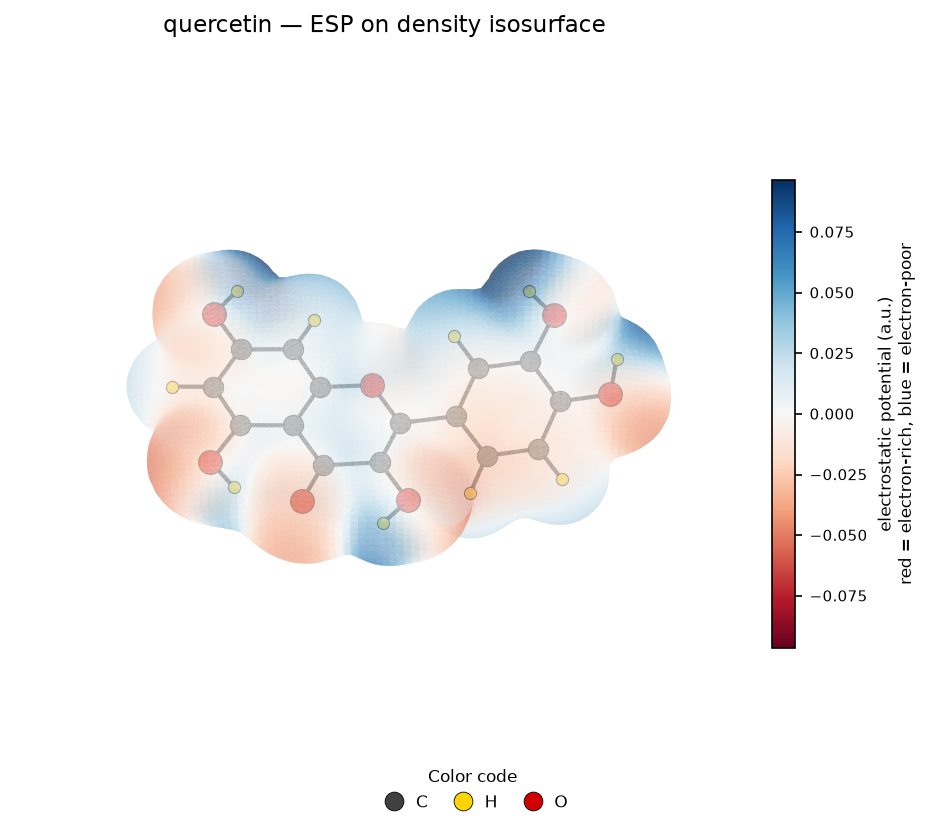
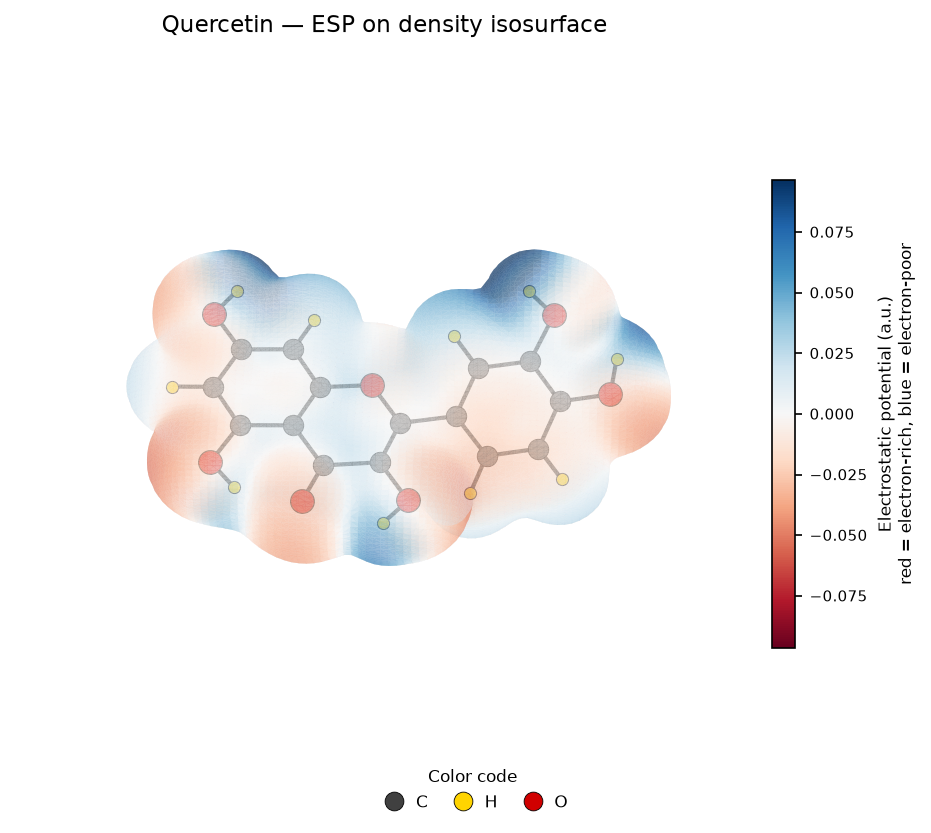
style(report): capitalize figure panel titles
The pose, Fukui, protonation and ESP figures carried lowercase panel
titles ('side', 'atom indices', 'neutral'/'protonated', 'electrostatic
potential') that broke the sentence-case convention. Capitalize them and
make the pose side view symmetric with the top view. The orbital (fig2b)
and ESP (fig7) figures were also stale, still showing the pre-display_name
lowercase molecule name, so regenerate them; the titles now read
'Kaempferol HOMO' and 'Kaempferol - ESP on density isosurface'. The Fukui
f-/f+ legend and the RDF r / g(r) axis labels stay lowercase as standard
scientific notation.

Regenerated arghel figures: fig2b, fig3b, fig4, fig5, fig7.

Changed region(s): [[0.3426, 0.0, 0.6541, 0.0624], [0.9345, 0.3745, 0.9656, 0.6555], [0.1557, 0.0, 0.2803, 0.0624]]

diff --git a/tests/test_figure_titles.py b/tests/test_figure_titles.py
@@ -1,0 +1,80 @@
+"""Figure panel titles are sentence-cased (capitalised first word).
+
+Guards against the lowercase panel titles ('side', 'atom indices') that shipped
+in the pose and Fukui figures — every rendered subplot title must lead with a
+capital so the manuscript figures read consistently.
+"""
+import matplotlib
+
+matplotlib.use("Agg")
+
+import matplotlib.pyplot as plt
+import pandas as pd
+import pytest
+from ase import Atoms
+
+from corrosim import build_molecule
+from corrosim.qm.fukui import FukuiResult
+from corrosim.report import figures
+
+
+def _titles(fig):
+    """Non-empty subplot titles of a figure, in axis order."""
+    return [ax.get_title() for ax in fig.axes if ax.get_title()]
+
+
+def _leads_capital(title: str) -> bool:
+    """True when the title's first character is not a lowercase letter."""
+    return not title[0].islower()
+
+
+class _FakeSystem:
+    """Minimal adsorption-system stand-in for the pose renderer."""
+
+    metal = "Fe"
+    surface = "(110)"
+    combined = Atoms("Fe2O", positions=[[0, 0, 0], [2.5, 0, 0], [1.2, 0, 3.0]])
+
+
+def test_plot_adsorption_pose_panel_titles_are_capitalised():
+    fig = figures.plot_adsorption_pose(_FakeSystem())
+    titles = _titles(fig)
+    assert titles == ["Fe(110) — top", "Fe(110) — side"]
+    assert all(_leads_capital(t) for t in titles)
+    plt.close(fig)
+
+
+def test_plot_fukui_atom_index_panel_is_capitalised():
+    pytest.importorskip("PIL")
+    mol = build_molecule("tetrazole")
+    syms = mol.symbols
+    fk = FukuiResult.from_populations(
+        symbols=syms,
+        f_plus=[0.1] * len(syms),
+        f_minus=[0.2] * len(syms),
+        softness=1.0,
+    )
+    fig = figures.plot_fukui(fk, molecule=mol, title="Tetrazole — condensed Fukui")
+    titles = _titles(fig)
+    # The structure panel (present when RDKit 2D drawing is available) must be
+    # 'Atom indices', not the old lowercase 'atom indices'.
+    assert "Atom indices" in titles
+    assert all(_leads_capital(t) for t in titles)
+    plt.close(fig)
+
+
+def test_plot_protonation_effect_legend_is_capitalised():
+    df = pd.DataFrame(
+        [
+            {"name": "x", "form": "neutral", "phase": "aqueous",
+             "gap_ev": 3.0, "delta_n": 0.20},
+            {"name": "x+H+", "form": "protonated", "phase": "aqueous",
+             "gap_ev": 3.2, "delta_n": 0.10},
+        ]
+    )
+    fig = figures.plot_protonation_effect(df, ["x"])
+    legends = {t.get_text()
+               for ax in fig.axes if ax.get_legend()
+               for t in ax.get_legend().get_texts()}
+    assert legends == {"Neutral", "Protonated"}
+    plt.close(fig)

diff --git a/src/corrosim/report/figures.py b/src/corrosim/report/figures.py
@@ -320,8 +320,8 @@ def plot_protonation_effect(df: pd.DataFrame, order: Sequence[str],
         neu = [val("neutral", m) for m in order]
         pro = [val("protonated", m + "+H+") for m in order]
         x = np.arange(len(order))
-        ax.bar(x - 0.2, neu, 0.4, label="neutral", color=C_BAR)
-        ax.bar(x + 0.2, pro, 0.4, label="protonated", color=C_LUMO)
+        ax.bar(x - 0.2, neu, 0.4, label="Neutral", color=C_BAR)
+        ax.bar(x + 0.2, pro, 0.4, label="Protonated", color=C_LUMO)
         ax.set_xticks(x)
         ax.set_xticklabels([display_name(m) for m in order], rotation=15)
         ax.set_title(title, fontsize=10)
@@ -407,7 +407,7 @@ def plot_adsorption_pose(system: Any, out: str | None = None) -> object:
     plot_atoms(combined, axes[0], rotation="0x,0y,0z", colors=colors)
     plot_atoms(combined, axes[1], rotation="-90x,0y,0z", colors=colors)
     axes[0].set_title(f"{system.metal}{system.surface} — top")
-    axes[1].set_title("side")
+    axes[1].set_title(f"{system.metal}{system.surface} — side")
     for a in axes:
         a.set_axis_off()
     fig.tight_layout()
@@ -534,7 +534,7 @@ def plot_fukui(fukui: Any, molecule: Any = None, out: str | None = None,
                                        gridspec_kw={"width_ratios": [1, 1.5]})
         ax0.imshow(struct)
         ax0.axis("off")
-        ax0.set_title("atom indices", fontsize=10)
+        ax0.set_title("Atom indices", fontsize=10)
     else:
         fig, ax1 = plt.subplots(figsize=(max(6.5, 0.45 * len(heavy)), 4.3))
     x = np.arange(len(heavy))
@@ -683,7 +683,7 @@ def render_esp(density_cube: str, esp_cube: str, out: str | None = None,
     # Two keys: the potential colour scale (surface) and the atom colour code
     cb = fig.colorbar(mpl.cm.ScalarMappable(norm=norm, cmap=cmap), ax=ax,
                       shrink=0.6, pad=0.02)
-    cb.set_label("electrostatic potential (a.u.)\nred = electron-rich, "
+    cb.set_label("Electrostatic potential (a.u.)\nred = electron-rich, "
                  "blue = electron-poor", fontsize=8)
     cb.ax.tick_params(labelsize=7)
     if title:
